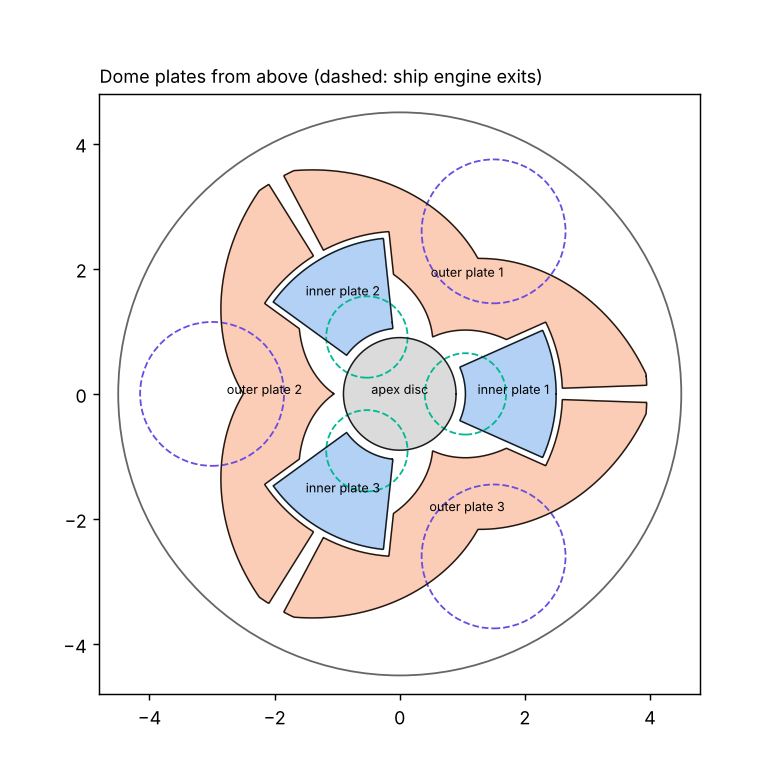
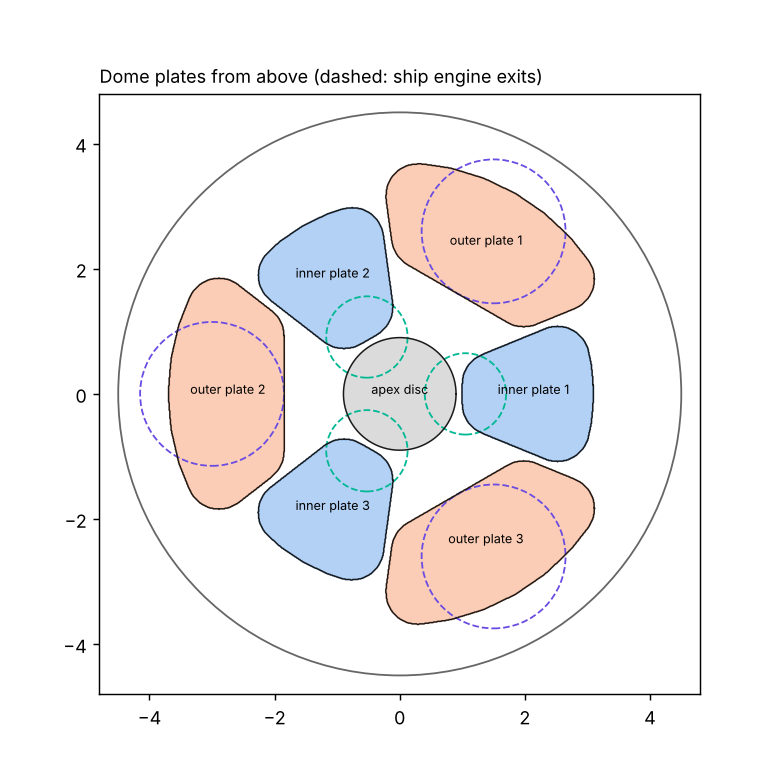
Hot staging: protection plates as in the photos (rounded inner petals from the apex disc, rounded inward-pointing wedges between them)
Claude-Session: https://claude.ai/code/session_01UWG1WERXxcxRgYaPocUTn6

Changed region(s): [[0.2154, 0.1846, 0.8308, 0.8]]

diff --git a/rocketcfd/vehicles/starship.py b/rocketcfd/vehicles/starship.py
@@ -42,17 +42,18 @@ class StarshipParams:
     truss_tube_radius: float = 0.12
     truss_band: float = 0.35           # height of the lower and upper rings
     truss_band_thickness: float = 0.15
-    # forward-dome protection plates (photos): six plates in a flower round a concentric-ring
-    # disc at the apex. Three inner plates, trapezoids widening outward, under the ship's three
-    # sea-level engines; three outer plates, bent V's (chevrons) between them, under the RVacs,
-    # pointing inward with their arms wrapped round the trapezoids' outer ends. Plan-view sizes
-    # [m] (estimates from photos): apex disc radius; trapezoid inner / outer radius and half
-    # angle [deg]; chevron apex radius, slope of its edges [m per rad], width, outer cap radius
-    # and half angle [deg]; gap between plates; standoff above the dome
+    # forward-dome protection plates (photos): six rounded plates in a flower round a
+    # concentric-ring disc at the apex. Three inner plates start at the disc and widen outward
+    # (rounded trapezoids) under the ship's sea-level engines; three outer plates fill the
+    # wedge-shaped gaps between them, starting further out (rounded V's pointing inward, bent over
+    # the dome), under the RVacs. Plan-view sizes [m] (estimates from photos): apex disc radius;
+    # inner plate inner / outer radius and inner / outer width; outer plate inner / outer radius;
+    # corner rounding radius; gap between plates; standoff above the dome
     plate_apex_r: float = 0.9
-    plate_trap: tuple = (1.05, 2.5, 24.0)
-    plate_chevron: tuple = (1.05, 1.5, 1.45, 3.95, 58.0)
-    plate_gap: float = 0.1
+    plate_inner: tuple = (1.0, 3.1, 1.0, 2.5)
+    plate_outer: tuple = (1.85, 3.7)
+    plate_round: float = 0.5
+    plate_gap: float = 0.12
     plate_standoff: float = 0.05
     apex_disc: bool = True
     # engine cant [deg, outward = the exhaust pointing away from the axis], about each engine's
@@ -180,27 +181,119 @@ def _wrap(a):
     return np.arctan2(np.sin(a), np.cos(a))
 
 
-def _trapezoid_2d(Y, Z, az, P):
-    """Plan-view signed distance (approx.) to an inner plate centred on azimuth az."""
-    r0, r1, half = P.plate_trap
-    rho = np.sqrt(Y * Y + Z * Z)
-    dth = np.abs(_wrap(np.arctan2(Z, Y) - az))
-    side = np.sin(np.clip(dth - np.radians(half), -np.pi / 2, np.pi / 2)) * rho      # distance to the straight side
-    return np.maximum(np.maximum(r0 - rho, rho - r1), side)
+def _convex_sdf_2d(Y, Z, V):
+    """Signed distance to a convex polygon (vertices V, counter-clockwise) in the plane."""
+    n = len(V)
+    inside = None
+    out2 = None
+    for i in range(n):
+        a, b = V[i], V[(i + 1) % n]
+        e = b - a
+        L = np.hypot(*e)
+        nx, nz = e[1] / L, -e[0] / L                       # outward normal of a CCW polygon
+        dl = (Y - a[0]) * nx + (Z - a[1]) * nz             # signed distance to the edge's line
+        inside = dl if inside is None else np.maximum(inside, dl)
+        t = np.clip(((Y - a[0]) * e[0] + (Z - a[1]) * e[1]) / (L * L), 0.0, 1.0)
+        d2 = (Y - a[0] - t * e[0]) ** 2 + (Z - a[1] - t * e[1]) ** 2
+        out2 = d2 if out2 is None else np.minimum(out2, d2)
+    return np.where(inside > 0, np.sqrt(out2), inside)
 
 
-def _chevron_2d(Y, Z, az, P):
-    """Plan-view signed distance (approx.) to an outer, bent-V plate centred on azimuth az."""
-    r_apex, slope, width, r_cap, half = P.plate_chevron
-    rho = np.sqrt(Y * Y + Z * Z)
-    dth = np.abs(_wrap(np.arctan2(Z, Y) - az))
-    r_in = r_apex + slope * dth
-    band = np.maximum(r_in - rho, rho - np.minimum(r_in + width, r_cap)) / np.sqrt(1 + (slope / np.maximum(rho, 0.3)) ** 2)
-    ang = np.sin(np.clip(dth - np.radians(half), -np.pi / 2, np.pi / 2)) * rho
-    d = np.maximum(band, ang)
-    for k in range(3):                       # clear of the neighbouring trapezoids, with the gap
-        d = np.maximum(d, P.plate_gap - _trapezoid_2d(Y, Z, np.radians(P.sea_level[5]) + 2 * np.pi * k / 3, P))
-    return d
+def _ccw(V):
+    V = np.asarray(V, float)
+    area = 0.5 * np.sum(V[:, 0] * np.roll(V[:, 1], -1) - np.roll(V[:, 0], -1) * V[:, 1])
+    return V if area > 0 else V[::-1]
+
+
+def _rot(az):
+    return np.array([[np.cos(az), -np.sin(az)], [np.sin(az), np.cos(az)]])
+
+
+def _inner_plate_poly(az, P):
+    """Corners (y, z) of an inner plate before rounding: a trapezoid along azimuth az."""
+    r0, r1, w0, w1 = P.plate_inner
+    # straight sides, outer end an arc of radius r1 (about the axis)
+    a1 = np.arcsin(min(0.99, (w1 / 2) / r1))
+    arc = [[r1 * np.cos(t), r1 * np.sin(t)] for t in np.linspace(-a1, a1, 7)]
+    loc = np.array([[r0, -w0 / 2]] + arc + [[r0, w0 / 2]])      # (radial, tangential)
+    return _ccw(loc @ _rot(az).T)
+
+
+def _outer_plate_poly(az, P):
+    """Corners of an outer plate before rounding: the gap between the two neighbouring inner
+    plates (their facing sides moved over by the plate gap), from radius ra to rb."""
+    ra, rb = P.plate_outer
+    R = _rot(az)
+    sides = []
+    for sgn in (+1, -1):                                   # neighbours at az + 60 deg and az - 60 deg
+        T = _inner_plate_poly(az + sgn * np.pi / 3, P) @ R  # into the outer plate's frame (radial, tangential)
+        # the neighbour's side facing this plate: the edge whose midpoint is nearest the axis u
+        best = None
+        for i in range(len(T)):
+            a, b = T[i], T[(i + 1) % len(T)]
+            m = 0.5 * (a + b)
+            if abs(np.hypot(*a) - np.hypot(*b)) < 1e-6:
+                continue                                   # (inner / outer ends, both corners at one radius: skip)
+            key = abs(m[1])
+            if best is None or key < best[0]:
+                best = (key, a, b)
+        _, a, b = best
+        if np.hypot(*b) < np.hypot(*a):
+            a, b = b, a                                    # along the side, outward
+        e = (b - a) / np.hypot(*(b - a))
+        nrm = np.array([-e[1], e[0]])
+        if nrm @ (np.array([0.5 * (ra + rb), 0.0]) - a) < 0:
+            nrm = -nrm                                     # toward this plate
+        sides.append((a + P.plate_gap * nrm, e))
+    # each side from u = ra out to where it meets the circle of radius rb; the outer end an arc
+    inner, outer = [], []
+    for p0, e in sides:
+        inner.append(p0 + (ra - p0[0]) / e[0] * e)
+        # |p0 + t e| = rb, the root beyond the inner end
+        bq = 2 * (p0 @ e)
+        cq = p0 @ p0 - rb * rb
+        t = (-bq + np.sqrt(bq * bq - 4 * cq)) / 2
+        outer.append(p0 + t * e)
+    t0, t1 = sorted(np.arctan2(q[1], q[0]) for q in outer)
+    arc = [[rb * np.cos(t), rb * np.sin(t)] for t in np.linspace(t0, t1, 9)]
+    lo_in = min(inner, key=lambda q: q[1])
+    hi_in = max(inner, key=lambda q: q[1])
+    loc = np.array([lo_in] + arc + [hi_in])
+    return _ccw(loc @ R.T)
+
+
+_ROUND_CACHE = {}
+
+
+def _rounded_field(V, r, h=0.01):
+    """Plan-view signed distance of the polygon V with every corner rounded to radius r (a
+    morphological opening on a 1 cm raster: erode by r, dilate by r), as an interpolator."""
+    key = (V.tobytes(), r, h)
+    if key in _ROUND_CACHE:
+        return _ROUND_CACHE[key]
+    from scipy.ndimage import distance_transform_edt as edt
+    from scipy.interpolate import RegularGridInterpolator
+    lo = V.min(0) - r - 0.3
+    hi = V.max(0) + r + 0.3
+    ay = np.arange(lo[0], hi[0] + h, h)
+    az = np.arange(lo[1], hi[1] + h, h)
+    Y, Z = np.meshgrid(ay, az, indexing="ij")
+    inside = _convex_sdf_2d(Y, Z, V) < 0
+    core = edt(inside) * h > r                               # eroded
+    opened = edt(~core) * h <= r                             # dilated back: corners rounded
+    sd = np.where(opened, -edt(opened) * h, edt(~opened) * h)
+    f = RegularGridInterpolator((ay, az), sd, bounds_error=False, fill_value=None)
+    _ROUND_CACHE[key] = (f, lo, hi)
+    return _ROUND_CACHE[key]
+
+
+def _rounded(Y, Z, V, r):
+    f, lo, hi = _rounded_field(V, r)
+    Yc = np.clip(Y, lo[0], hi[0])
+    Zc = np.clip(Z, lo[1], hi[1])
+    d = f(np.stack([np.ravel(Yc), np.ravel(Zc)], -1)).reshape(np.shape(Y))
+    # beyond the raster: add the distance to it (a bound, enough for the plates' thin layer)
+    return d + np.hypot(Y - Yc, Z - Zc)
 
 
 def dome_plate_footprints(P: StarshipParams = StarshipParams()):
@@ -210,12 +303,13 @@ def dome_plate_footprints(P: StarshipParams = StarshipParams()):
     if P.apex_disc:
         out.append(("apex disc", lambda Y, Z: np.sqrt(Y * Y + Z * Z) - P.plate_apex_r))
     az_sl = np.radians(P.sea_level[5])
+    rr = P.plate_round
     for k in range(3):
-        a = az_sl + 2 * np.pi * k / 3
-        out.append((f"inner plate {k + 1}", (lambda a_: lambda Y, Z: _trapezoid_2d(Y, Z, a_, P))(a)))
+        V = _inner_plate_poly(az_sl + 2 * np.pi * k / 3, P)
+        out.append((f"inner plate {k + 1}", (lambda V_: lambda Y, Z: _rounded(Y, Z, V_, rr))(V)))
     for k in range(3):
-        a = az_sl + np.pi / 3 + 2 * np.pi * k / 3
-        out.append((f"outer plate {k + 1}", (lambda a_: lambda Y, Z: _chevron_2d(Y, Z, a_, P))(a)))
+        V = _outer_plate_poly(az_sl + np.pi / 3 + 2 * np.pi * k / 3, P)
+        out.append((f"outer plate {k + 1}", (lambda V_: lambda Y, Z: _rounded(Y, Z, V_, rr))(V)))
     return out
 
 

diff --git a/README.md b/README.md
@@ -597,10 +597,11 @@ truss tubes. The flow comes from the ship's nose, with time-accurate explicit st
 - V3 hot stage (`rocketcfd.vehicles.starship.hot_stage_truss_sdf`): a lower and an upper ring
   joined by a zig-zag of 40 round tubes (24 cm diameter, 20 V's), open between the tubes.
 - Forward-dome protection plates (`dome_plate_footprints`, `dome_plates_sdf`), 5 cm proud of the
-  dome: six plates in a flower round a concentric-ring apex disc (1.8 m).
-  - Three inner plates, trapezoids widening outward, under the ship's sea-level engines.
-  - Three outer plates, bent V's under the RVacs, pointing inward between the trapezoids with
-    their arms wrapped round the trapezoids' outer ends.
+  dome: six rounded plates in a flower round a concentric-ring apex disc (1.8 m).
+  - Three inner plates start at the disc and widen outward (rounded trapezoids), under the ship's
+    sea-level engines.
+  - Three outer plates fill the wedge-shaped gaps between them and start further out (rounded V's
+    pointing inward, bent over the dome), under the RVacs.
   - Sizes are `StarshipParams.plate_*` (estimates from photos); `apex_disc=False` drops the disc.
   - Plan view: [docs/media/hotstage_plates_plan.png](docs/media/hotstage_plates_plan.png).
 - `--ring vented` gives the earlier ring with straight struts.
